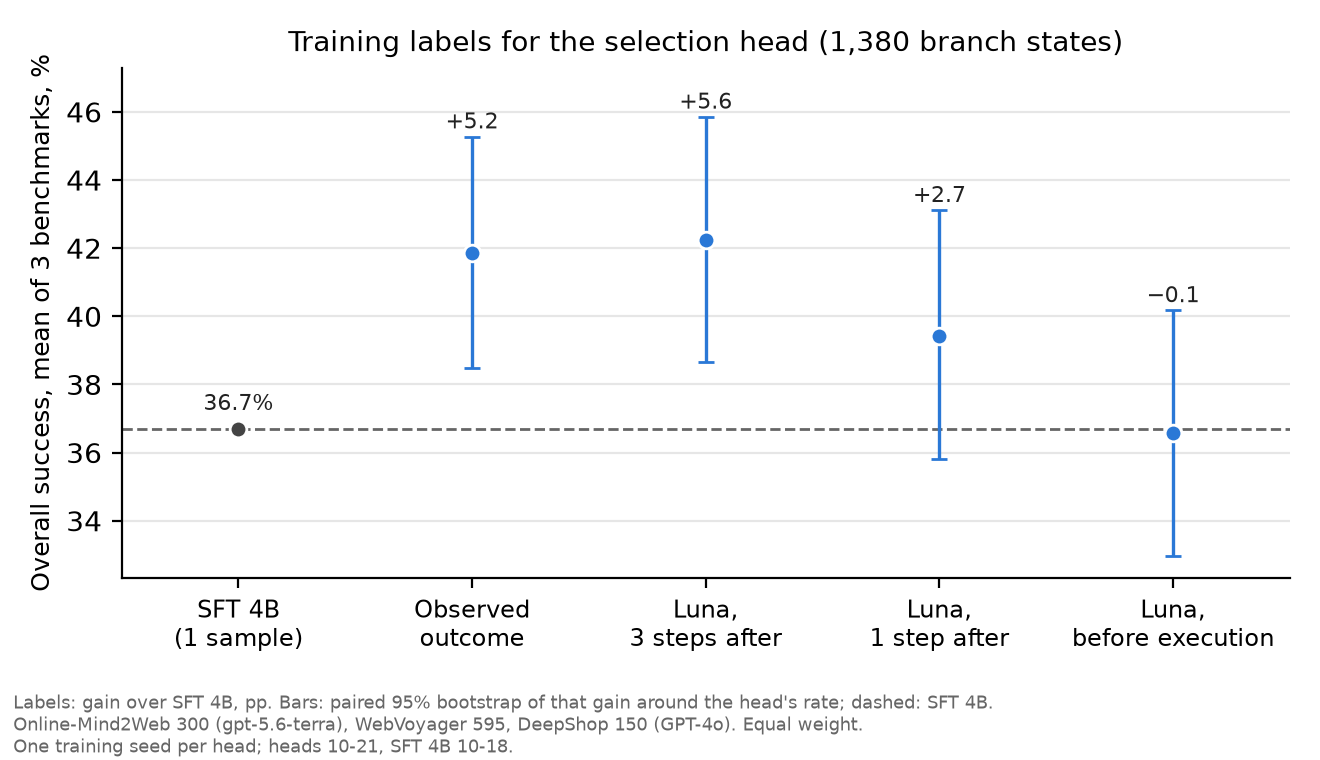
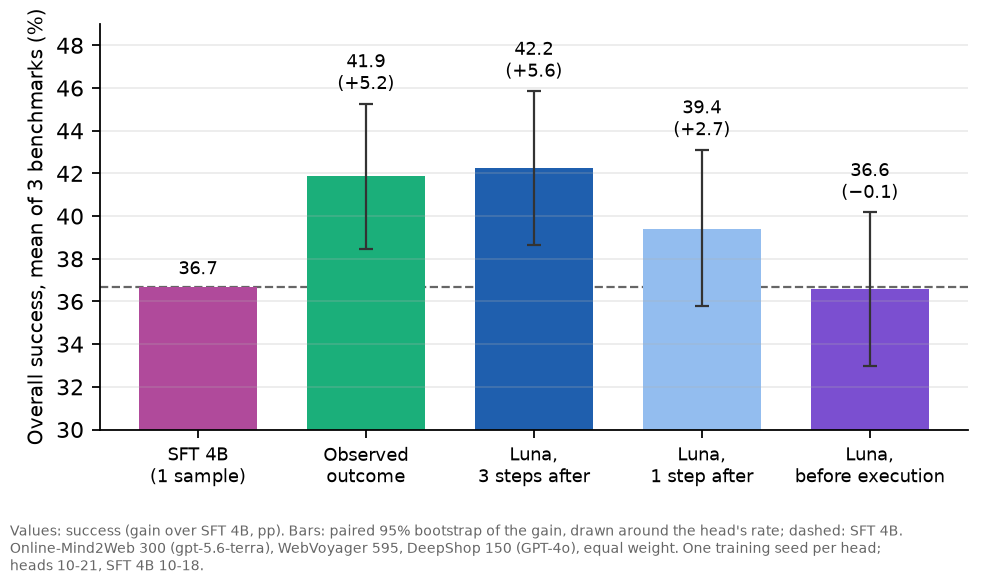
Plot: label ablation as a bar chart in the lookahead-figure style (success, gain over SFT 4B, paired 95% intervals)

Changed region(s): [[0.0, 0.0312, 0.9688, 0.875], [0.0, 0.9062, 0.9062, 1.0], [0.8438, 0.2812, 0.9062, 0.3438]]

diff --git a/openwebrl/docs/arm_results/rl_integration/selection-label-ablation-vs-sft-20261027-plot.py b/openwebrl/docs/arm_results/rl_integration/selection-label-ablation-vs-sft-20261027-plot.py
@@ -2,7 +2,7 @@
 """Label ablation: live success of the four heads trained on our 1,380 SFT-actor branch states, which differ only in their
 training labels, against one SFT 4B sample (reads selection-data-scale-20261023.json, the terra-judged three-benchmark table).
 
-selection-label-ablation-vs-sft-20261027.png: absolute overall success on the three-benchmark mean, each head labelled
+selection-label-ablation-vs-sft-20261027.png: bar chart (style of lookahead_success_bars_valid_only_main.png) of overall success on the three-benchmark mean, each head labelled
 with its gain over SFT 4B. Error bars are the paired 95% bootstrap interval of that gain (tasks resampled within each benchmark), drawn around the head's rate, so a bar clearing the dashed
 SFT line is a significant gain. Heads: joint transformer, soft CE, batch 64, last of 20 epochs, seed 0; SFT-4B actor, five
 candidates, T 1.0 / top-p 0.9, 30 steps; heads run 2026-10-21, SFT 4B 2026-10-18. Online-Mind2Web judged by
@@ -22,26 +22,29 @@ ROWS = [("SFT 4B\n(1 sample)", "SFT 4B"), ("Observed\noutcome", "Ours outcome"),
         ("Luna,\n1 step after", "Ours K1"), ("Luna,\nbefore execution", "Ours pre")]
 
 
-fig, ax = plt.subplots(figsize=(6.6, 3.8), dpi=200)
-xs = list(range(len(ROWS)))
+# colours follow the lookahead label figure (lookahead-draw-split-20261013/style.py): actor sample magenta, observed
+# outcome green, lookahead K = 3 / K = 1 dark / light blue, pre-execution purple
+COLORS = {"SFT 4B": "#b04a9b", "Ours outcome": "#1baf7a", "Ours K3": "#1f5fae", "Ours K1": "#93bdef", "Ours pre": "#7b4fd0"}
+fig, ax = plt.subplots(figsize=(6.2, 3.6))
 sft = T["SFT 4B"]["mean_overall"]
-ax.axhline(sft, color=MUTED, lw=1, ls="--")
-for x, (_, n) in zip(xs, ROWS):
-    y = T[n]["mean_overall"]; d, lo, hi = T[n]["minus_sft4b"]
+for x, (_, n) in enumerate(ROWS):
+    y = T[n]["mean_overall"]
+    ax.bar(x, y, color=COLORS[n], width=.7, edgecolor="white", lw=0)
     if n == "SFT 4B":
-        ax.plot(x, y, "o", color=GRAY, ms=6, markeredgecolor="white", markeredgewidth=1)
-        ax.annotate(f"{y:.1f}%", (x, y), xytext=(0, 7), textcoords="offset points", ha="center", fontsize=8, color=INK)
+        ax.text(x, y + .4, f"{y:.1f}", ha="center", va="bottom", fontsize=8)
         continue
-    ax.errorbar(x, y, yerr=[[d - lo], [hi - d]], fmt="o", color=BLUE, ms=6, capsize=3, elinewidth=1.2,
-                markeredgecolor="white", markeredgewidth=1)
-    ax.annotate(f"{d:+.1f}".replace("-", "\u2212"), (x, y + hi - d), xytext=(0, 3), textcoords="offset points",
-                ha="center", fontsize=8, color=INK)
-ax.set_xticks(xs); ax.set_xticklabels([r for r, _ in ROWS], fontsize=8.5); ax.set_xlim(-0.5, len(ROWS) - 0.5)
-ax.set_ylabel("Overall success, mean of 3 benchmarks, %", fontsize=9); ax.set_ylim(top=ax.get_ylim()[1] + 0.8)
-ax.grid(axis="y", color=GRID, lw=0.8); ax.set_axisbelow(True)
-for s in ("top", "right"): ax.spines[s].set_visible(False)
-ax.set_title("Training labels for the selection head (1,380 branch states)", fontsize=10)
-fig.text(0.01, 0.01, "Labels: gain over SFT 4B, pp. Bars: paired 95% bootstrap of that gain around the head's rate; dashed: SFT 4B.\nOnline-Mind2Web 300 (gpt-5.6-terra), WebVoyager 595, DeepShop 150 (GPT-4o). "
-         "Equal weight.\nOne training seed per head; heads 10-21, SFT 4B 10-18.", fontsize=6.5, color=MUTED)
-fig.tight_layout(rect=(0, 0.1, 1, 1))
-fig.savefig(HERE / "selection-label-ablation-vs-sft-20261027.png"); plt.close(fig)
+    d, lo, hi = T[n]["minus_sft4b"]
+    ax.errorbar(x, y, yerr=[[d - lo], [hi - d]], color="#333333", capsize=3, lw=1)
+    ax.text(x, y + hi - d + .4, f"{y:.1f}\n({d:+.1f})".replace("-", "\u2212"), ha="center", va="bottom", fontsize=8)
+ax.axhline(sft, color=MUTED, lw=1, ls="--", zorder=0)
+ax.set_xticks(range(len(ROWS)), [r for r, _ in ROWS], fontsize=8)
+ax.set_ylabel("Overall success, mean of 3 benchmarks (%)", fontsize=9)
+ax.set_ylim(30, 49); ax.set_yticks(range(30, 49, 2))
+ax.grid(axis="y", alpha=.25)
+for side in ("top", "right"):
+    ax.spines[side].set_visible(False)
+fig.text(0.01, 0.01, "Values: success (gain over SFT 4B, pp). Bars: paired 95% bootstrap of the gain, drawn around the head's "
+         "rate; dashed: SFT 4B.\nOnline-Mind2Web 300 (gpt-5.6-terra), WebVoyager 595, DeepShop 150 (GPT-4o), equal weight. "
+         "One training seed per head;\nheads 10-21, SFT 4B 10-18.", fontsize=6.5, color=MUTED)
+fig.tight_layout(rect=(0, 0.11, 1, 1))
+fig.savefig(HERE / "selection-label-ablation-vs-sft-20261027.png", dpi=160); plt.close(fig)

diff --git a/openwebrl/docs/ARM_FINAL_RESULTS.md b/openwebrl/docs/ARM_FINAL_RESULTS.md
@@ -262,7 +262,7 @@ Its conservative all-attempt model total was $353.582380 ($348.649556 known usag
 - **Paired differences on the mean overall rate, pp [95% bootstrap, tasks resampled within each benchmark].** vs SFT 4B: Piotr +6.7 [+3.0, +10.4], Piotr-data head +8.1 [+4.4, +11.8], outcome +5.9 [+2.5, +9.4], K = 3 +5.8 [+2.1, +9.5], K = 1 +2.2 [−1.5, +5.8], pre-execution −0.7 [−4.2, +2.8], SFT 8B +3.3 [−0.3, +6.9]. vs Piotr: Piotr-data head +1.4 [−2.1, +4.9], outcome −0.8 [−4.5, +2.8], K = 3 −0.9 [−4.5, +2.7], K = 1 −4.5 [−8.3, −0.8], pre-execution −7.4 [−11.1, −3.8], SFT 8B −3.4 [−7.3, +0.4]. Piotr-data head − SFT 8B +4.8 [+1.0, +8.5]. Valid-only differences (tasks valid under both) agree within 1.1 pp.
 - **Label ablation, plotted.** The four heads below differ only in their training labels (same 1,380 branch states and recipe). Here Online-Mind2Web uses the current gpt-5.6-terra judge (all runs re-judged from saved requests), so the gains are slightly lower than the o4-mini numbers above (outcome +5.2, K = 3 +5.6, K = 1 +2.7, pre-execution −0.1 pp on the mean). Bars are the paired 95% interval of the gain ([computed as below](#final-paired-bootstrap)), drawn around each head's rate; a bar clearing the dashed SFT line is a significant gain. [Plot script](arm_results/rl_integration/selection-label-ablation-vs-sft-20261027-plot.py)
 
-  ![Overall success of the label-ablation heads and SFT 4B on the three-benchmark mean, labelled with gains over SFT 4B](arm_results/rl_integration/selection-label-ablation-vs-sft-20261027.png)
+  ![Bar chart: overall success of SFT 4B and the four label-ablation heads on the three-benchmark mean, each labelled with its gain over SFT 4B, with paired 95% intervals](arm_results/rl_integration/selection-label-ablation-vs-sft-20261027.png)
 - **Online-Mind2Web is where the branch labels fall short.** On WebVoyager and DeepShop the outcome and K3 heads match Piotr; on Online-Mind2Web none clearly beats SFT, while the Piotr-data head does (+7.3 pp [+1.7, +13.0]).
 - **Why time barely drops.** Generating five candidates takes about 8.2 s of each 8–9 s decision; Piotr's selector adds 0.50 s and the head 0.02 s. Selector FLOPs are a fast prefill, while decoding is bandwidth-bound, so the head's 36% compute saving per step becomes only about 0.5 s per decision, roughly offset by its hidden-state capture. Episode length matters as much: the outcome head is cheapest per episode because it takes the fewest steps. Times come from live runs on different nodes, not a matched timing study.
 - **Architecture barely matters.** With K = 1 labels on the same 1,380 branch states, crossing joint / independent attention with soft CE / per-candidate BCE on all 1,045 tasks gives mean overall rates of 40.2–41.5%. Joint − independent is +0.7 pp [−2.1, +3.4] and soft CE − BCE −0.6 pp [−3.1, +1.9] ([details](ARM_SELECTION_HEAD.md#selection-head-arch-full-20261022)).
